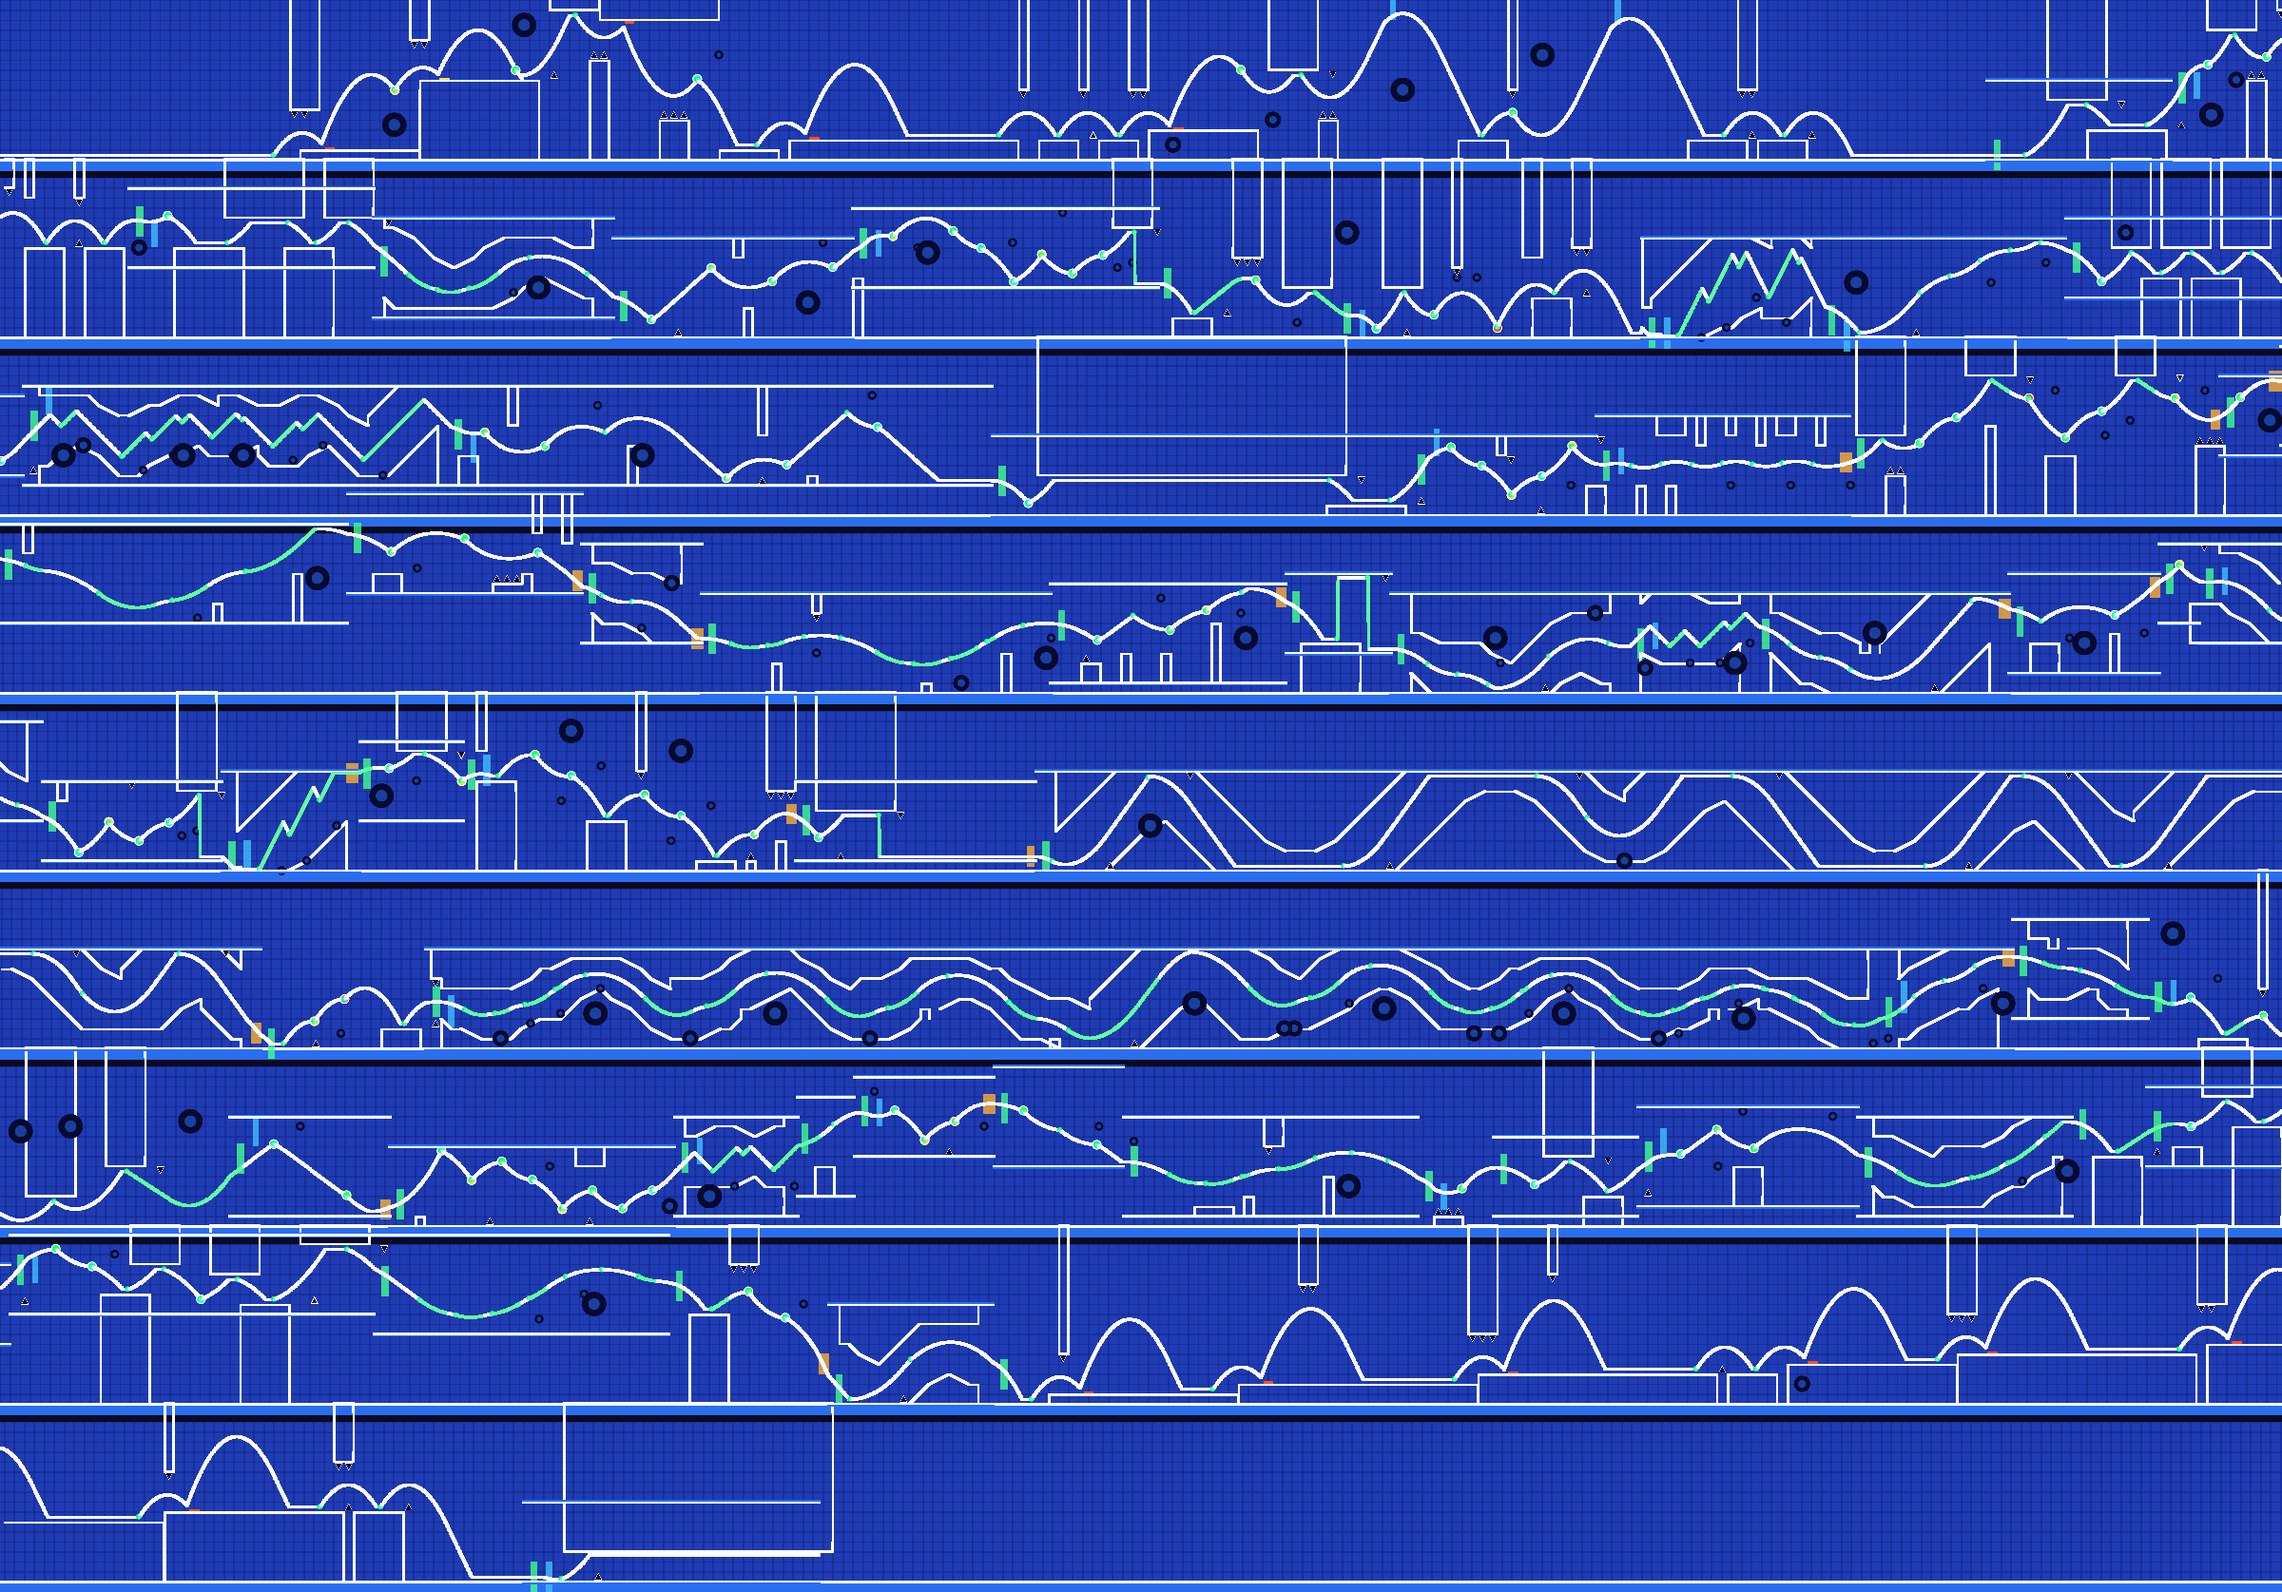
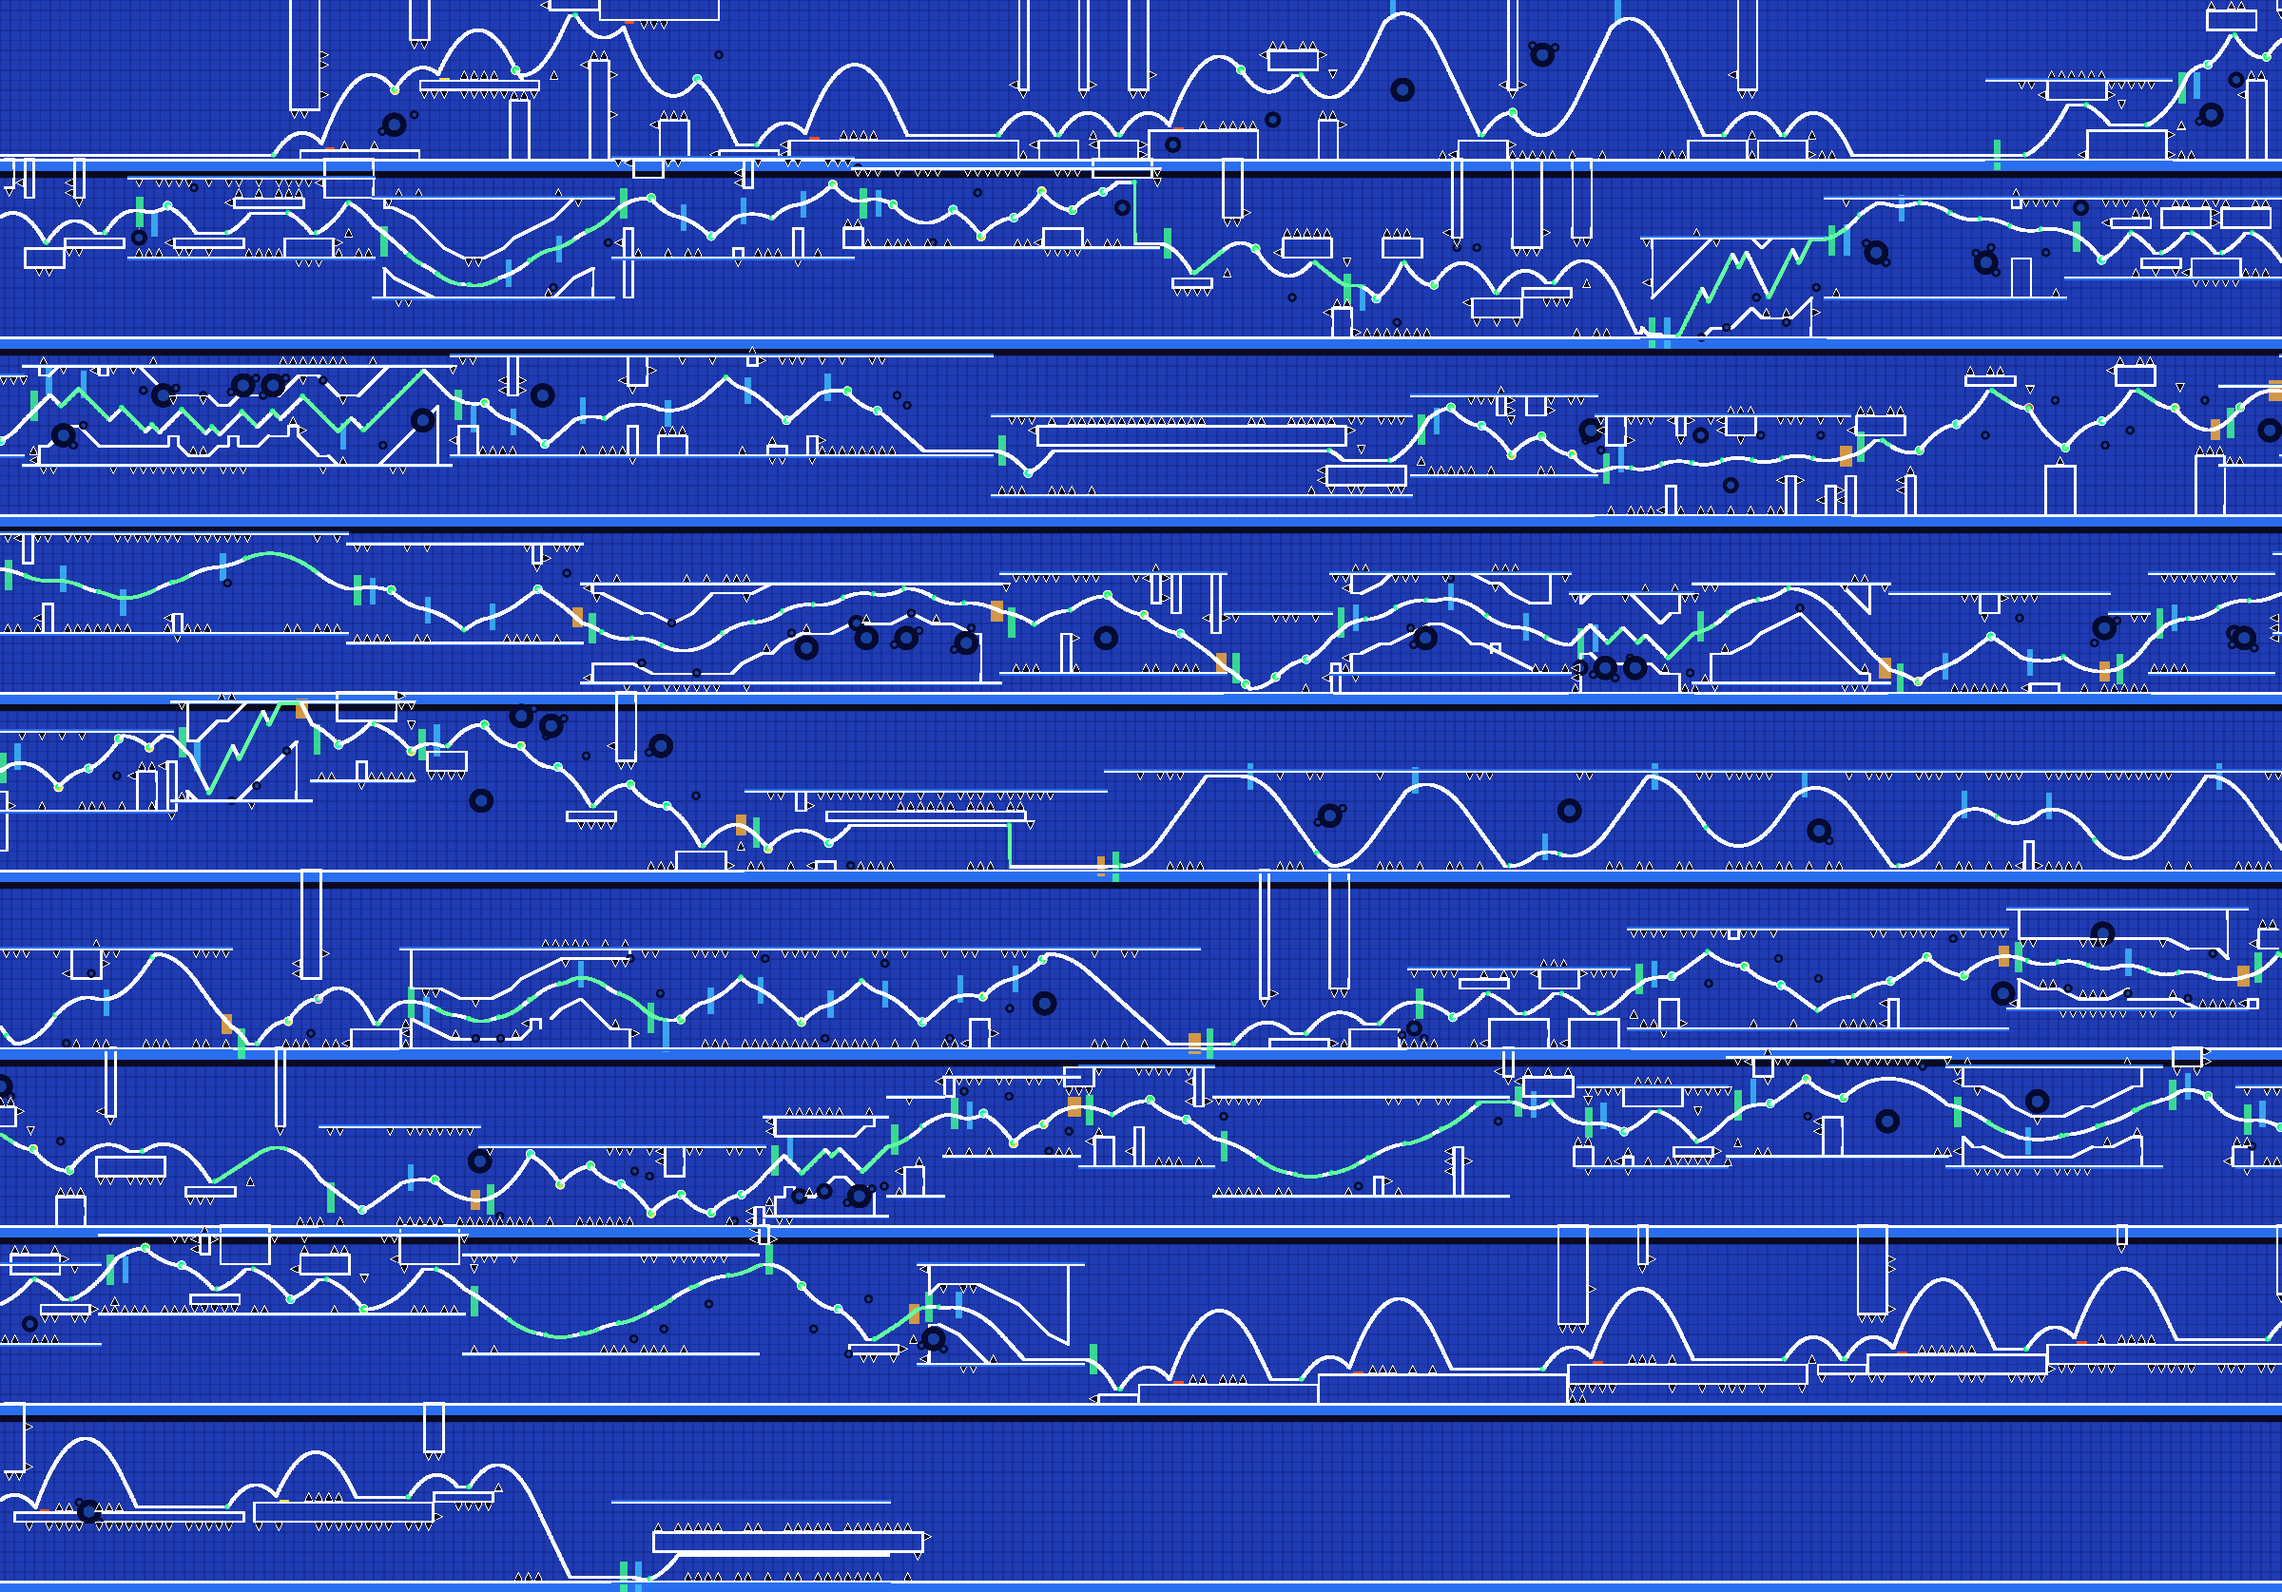
Generator v2: wave like the reference layouts
- wave corridors: sharp 45-degree triangles (no 2-wide slopes, peaks kept)
- flying modes: gravity portals in long gaps turn the player around instead of sliding along
  the floor or the ceiling; wave sliding scored down harder
- wave/ship taps (a few ticks) scored down: skipping them barely changes the path, so they can
  not be made necessary (wave-only level: 75% of the clicks forced, was 51%)
- gallery regenerated; 40-level fuzz: 0 failed, 99.4% of the clicks used, slowest 3.1 s

Claude-Session: https://claude.ai/code/session_01KAvSEZ8o97cfyu2hypAf3n

diff --git a/core/src/gen/structures.cpp b/core/src/gen/structures.cpp
@@ -458,6 +458,7 @@ void Structurer::corridors() {
         const int c0 = int(std::floor(m_nominal[size_t(i)].x / kCell)) + 2;
         const int c1 = int(std::floor(m_nominal[size_t(j - 1)].x / kCell)) - 2;
         const int floorRow = int(std::lround(q.floorY / kCell)), ceilRow = int(std::lround(q.ceilY / kCell)) - 1;
+        const bool wide = q.mode != Mode::Wave; // wave walls are sharp 45-degree triangles
         std::vector<int> top, bottom; // per column: solid floor up to top (exclusive), ceiling from bottom
         for (int c = c0; c <= c1; ++c) {
             // exactly the cells that may be built (the same test the placement uses)
@@ -478,7 +479,7 @@ void Structurer::corridors() {
         for (size_t k = 1; k < m; ++k) bottom[k] = std::max(bottom[k], bottom[k - 1] - 1);
         for (size_t k = m; k-- > 1;) bottom[k - 1] = std::max(bottom[k - 1], bottom[k] - 1);
         // one-column bumps go (lowering a floor / raising a ceiling only makes room)
-        for (size_t k = 1; k + 1 < m; ++k) {
+        for (size_t k = 1; k + 1 < m && wide; ++k) {
             if (top[k] > top[k - 1] && top[k] > top[k + 1]) top[k] = std::max(top[k - 1], top[k + 1]);
             if (bottom[k] < bottom[k - 1] && bottom[k] < bottom[k + 1]) bottom[k] = std::min(bottom[k - 1], bottom[k + 1]);
         }
@@ -488,16 +489,16 @@ void Structurer::corridors() {
         for (size_t k = 0; k < m; ++k) {
             const int dIn = k > 0 ? top[k] - top[k - 1] : 0, dOut = k + 1 < m ? top[k + 1] - top[k] : 0;
             if (fk[k] != CellKind::Solid) continue;
-            if (dIn == 1 && k + 1 < m && dOut == 0) { fk[k] = CellKind::WideFloorUpL; fk[k + 1] = CellKind::WideFloorUpR; continue; }
-            if (dOut == -1 && dIn == 0 && k > 0 && fk[k - 1] == CellKind::Solid) { fk[k - 1] = CellKind::WideFloorDownL; fk[k] = CellKind::WideFloorDownR; continue; }
+            if (wide && dIn == 1 && k + 1 < m && dOut == 0) { fk[k] = CellKind::WideFloorUpL; fk[k + 1] = CellKind::WideFloorUpR; continue; }
+            if (wide && dOut == -1 && dIn == 0 && k > 0 && fk[k - 1] == CellKind::Solid) { fk[k - 1] = CellKind::WideFloorDownL; fk[k] = CellKind::WideFloorDownR; continue; }
             if (dIn == 1 && dOut != -1) fk[k] = CellKind::SlopeFloorUp;
             else if (dOut == -1 && dIn != 1) fk[k] = CellKind::SlopeFloorDown;
         }
         for (size_t k = 0; k < m; ++k) {
             const int dIn = k > 0 ? bottom[k] - bottom[k - 1] : 0, dOut = k + 1 < m ? bottom[k + 1] - bottom[k] : 0;
             if (ck[k] != CellKind::Solid) continue;
-            if (dIn == -1 && k + 1 < m && dOut == 0) { ck[k] = CellKind::WideCeilDownL; ck[k + 1] = CellKind::WideCeilDownR; continue; }
-            if (dOut == 1 && dIn == 0 && k > 0 && ck[k - 1] == CellKind::Solid) { ck[k - 1] = CellKind::WideCeilUpL; ck[k] = CellKind::WideCeilUpR; continue; }
+            if (wide && dIn == -1 && k + 1 < m && dOut == 0) { ck[k] = CellKind::WideCeilDownL; ck[k + 1] = CellKind::WideCeilDownR; continue; }
+            if (wide && dOut == 1 && dIn == 0 && k > 0 && ck[k - 1] == CellKind::Solid) { ck[k - 1] = CellKind::WideCeilUpL; ck[k] = CellKind::WideCeilUpR; continue; }
             if (dIn == -1 && dOut != 1) ck[k] = CellKind::SlopeCeilDown;
             else if (dOut == 1 && dIn != -1) ck[k] = CellKind::SlopeCeilUp;
         }

diff --git a/core/src/gen/path.cpp b/core/src/gen/path.cpp
@@ -549,6 +549,18 @@ void Planner::bridges(Cand base, int k, int T, int Tn, std::vector<Cand>& out) {
     // ---- same segment
     const Mode m = base.end.p[0].mode;
     out.push_back(base); // free: whatever happens without new objects
+    // flying modes with a long gap: a gravity portal turns the player around before it would
+    // slide along the floor or the ceiling
+    if (isFlying(m) && m_opt.gravityFlips != Tri::Off && Tn - T > int(0.4 * phys::kTPS)) {
+        for (double f : {0.35, 0.5, 0.65}) {
+            const int P = T + int(double(Tn - T) * f);
+            const TraceSample& q = at(base, P);
+            Cand gc = base;
+            const bool up = q.g < 0;
+            addObj(gc, make(up ? oid::PortalGravNormal : oid::PortalGravFlip, std::round(q.x / 15.0f) * 15.0f, std::round(q.y)), Act::GravityPortal, k);
+            if (evaluate(gc, until)) out.push_back(std::move(gc));
+        }
+    }
     if (groundMode(m) || surfaceMode(m)) {
         std::vector<Cand> landed;
         addLandings(base, T + 6, Tn, landed, 4);
@@ -650,6 +662,8 @@ double Planner::scoreCand(const Cand& c, int k, int T, int Tn) const {
         }
     };
     s += std::log(prior(c.act, c.sub));
+    // a wave/ship tap barely moves the path: skipping it would not matter, so it is rarely wanted
+    if (c.act == Act::Tap && (c.info.mode == Mode::Wave || c.info.mode == Mode::Ship) && !ck.recorded) s += std::log(0.3);
     // the style learned from real levels: more or less often than the built-in preferences
     if (m_opt.profile && c.used) {
         const int mode = int(c.info.mode);
@@ -689,7 +703,7 @@ double Planner::scoreCand(const Cand& c, int k, int T, int Tn) const {
     if (!e.bounded && hi > kMaxY) s -= 0.02 * (hi - kMaxY);
     if (e.bounded && !c.trace.empty()) {
         for (auto& q : c.trace) if (q.y - q.half <= e.floorY + 1 || q.y + q.half >= e.ceilY - 1) ++boundContact;
-        s -= (isFlying(e.mode) ? 3.0 : 1.2) * double(boundContact) / double(c.trace.size());
+        s -= (e.mode == Mode::Wave ? 6.0 : isFlying(e.mode) ? 3.0 : 1.2) * double(boundContact) / double(c.trace.size());
         const float mid = (e.floorY + e.ceilY) * 0.5f;
         s -= 0.4 * std::fabs(e.y - mid) / std::max(60.0f, e.ceilY - e.floorY);
     }

diff --git a/docs/GALLERY.md b/docs/GALLERY.md
@@ -10,8 +10,8 @@ white (green while the button is held). Each image is the whole level, wrapped i
 `alcli generate demo --variant-seed 7 --difficulty 4`
 
 ```
-BEATABLE (bot verified) | 309 clicks (243 forced, 4 dropped) | windows: min 100 ms, mean 214 ms
-longest gap without input: 2.34 s at 43.4 s | music alignment 94% | difficulty follows music: r = 0.67
+BEATABLE (bot verified) | 309 clicks (252 forced, 4 dropped) | windows: min 100 ms, mean 208 ms
+longest gap without input: 2.34 s at 43.4 s | music alignment 94% | difficulty follows music: r = 0.66
 ```
 
 ![demo_auto](gallery/demo_auto.png)
@@ -21,8 +21,8 @@ longest gap without input: 2.34 s at 43.4 s | music alignment 94% | difficulty f
 `alcli generate demo --variant-seed 3 --difficulty 0`
 
 ```
-BEATABLE (bot verified) | 141 clicks (104 forced, 1 dropped) | windows: min 92 ms, mean 405 ms
-longest gap without input: 4.22 s at 127.3 s | music alignment 98% | difficulty follows music: r = 0.55
+BEATABLE (bot verified) | 141 clicks (98 forced, 3 dropped) | windows: min 138 ms, mean 395 ms
+longest gap without input: 6.08 s at 74.8 s | music alignment 98% | difficulty follows music: r = 0.57
 ```
 
 ![demo_easy](gallery/demo_easy.png)
@@ -32,8 +32,8 @@ longest gap without input: 4.22 s at 127.3 s | music alignment 98% | difficulty 
 `alcli generate demo --variant-seed 5 --difficulty 9`
 
 ```
-BEATABLE (bot verified) | 477 clicks (452 forced, 1 dropped) | windows: min 54 ms, mean 99 ms
-longest gap without input: 1.19 s at 0.0 s | music alignment 82% | difficulty follows music: r = 0.75
+BEATABLE (bot verified) | 477 clicks (467 forced, 3 dropped) | windows: min 50 ms, mean 97 ms
+longest gap without input: 1.41 s at 139.5 s | music alignment 82% | difficulty follows music: r = 0.78
 ```
 
 ![demo_extreme](gallery/demo_extreme.png)
@@ -43,8 +43,8 @@ longest gap without input: 1.19 s at 0.0 s | music alignment 82% | difficulty fo
 `alcli generate demo --variant-seed 11 --difficulty 3 --style 5 --modes 0`
 
 ```
-BEATABLE (bot verified) | 219 clicks (191 forced, 0 dropped) | windows: min 108 ms, mean 201 ms
-longest gap without input: 2.34 s at 43.8 s | music alignment 96% | difficulty follows music: r = 0.74
+BEATABLE (bot verified) | 219 clicks (193 forced, 0 dropped) | windows: min 108 ms, mean 197 ms
+longest gap without input: 2.34 s at 43.8 s | music alignment 96% | difficulty follows music: r = 0.73
 ```
 
 ![demo_retro_cube](gallery/demo_retro_cube.png)
@@ -54,8 +54,8 @@ longest gap without input: 2.34 s at 43.8 s | music alignment 96% | difficulty f
 `alcli generate demo --variant-seed 2 --difficulty 4 --style 1`
 
 ```
-BEATABLE (bot verified) | 297 clicks (248 forced, 4 dropped) | windows: min 92 ms, mean 210 ms
-longest gap without input: 2.34 s at 43.4 s | music alignment 95% | difficulty follows music: r = 0.69
+BEATABLE (bot verified) | 297 clicks (250 forced, 1 dropped) | windows: min 88 ms, mean 205 ms
+longest gap without input: 2.34 s at 43.4 s | music alignment 95% | difficulty follows music: r = 0.70
 ```
 
 ![demo_flow](gallery/demo_flow.png)
@@ -76,8 +76,8 @@ longest gap without input: 2.80 s at 74.3 s | music alignment 92% | difficulty f
 `alcli generate demo --variant-seed 9 --difficulty 5 --switch 0.15`
 
 ```
-BEATABLE (bot verified) | 351 clicks (290 forced, 1 dropped) | windows: min 88 ms, mean 187 ms
-longest gap without input: 2.34 s at 88.4 s | music alignment 92% | difficulty follows music: r = 0.78
+BEATABLE (bot verified) | 351 clicks (298 forced, 1 dropped) | windows: min 50 ms, mean 183 ms
+longest gap without input: 2.34 s at 88.4 s | music alignment 92% | difficulty follows music: r = 0.79
 ```
 
 ![demo_few_switches](gallery/demo_few_switches.png)
@@ -88,8 +88,8 @@ longest gap without input: 2.34 s at 88.4 s | music alignment 92% | difficulty f
 
 ```
 recording: 276 clicks: 100% on the music (mean offset 9 ms, your latency +23 ms removed), 8 holds, 15 doubles, 2 streams, 3 motifs
-BEATABLE (bot verified) | 276 clicks (193 forced, 1 dropped) | windows: min 79 ms, mean 220 ms
-longest gap without input: 7.75 s at 0.0 s | music alignment 77% | difficulty follows music: r = 0.69
+BEATABLE (bot verified) | 276 clicks (189 forced, 1 dropped) | windows: min 71 ms, mean 213 ms
+longest gap without input: 7.75 s at 0.0 s | music alignment 77% | difficulty follows music: r = 0.65
 ```
 
 ![demo_recording](gallery/demo_recording.png)
@@ -99,7 +99,7 @@ longest gap without input: 7.75 s at 0.0 s | music alignment 77% | difficulty fo
 `alcli generate random:17 --variant-seed 17 --difficulty 6`
 
 ```
-BEATABLE (bot verified) | 260 clicks (193 forced, 0 dropped) | windows: min 100 ms, mean 166 ms
+BEATABLE (bot verified) | 260 clicks (194 forced, 0 dropped) | windows: min 96 ms, mean 163 ms
 longest gap without input: 1.71 s at 48.1 s | music alignment 92% | difficulty follows music: r = 0.80
 ```
 
@@ -110,7 +110,7 @@ longest gap without input: 1.71 s at 48.1 s | music alignment 92% | difficulty f
 `alcli generate random:23 --variant-seed 23 --difficulty 2 --modes 1,3,4,7`
 
 ```
-BEATABLE (bot verified) | 380 clicks (288 forced, 0 dropped) | windows: min 133 ms, mean 301 ms
+BEATABLE (bot verified) | 380 clicks (276 forced, 0 dropped) | windows: min 146 ms, mean 287 ms
 longest gap without input: 3.19 s at 7.8 s | music alignment 100% | difficulty follows music: r = 0.71
 ```
 
